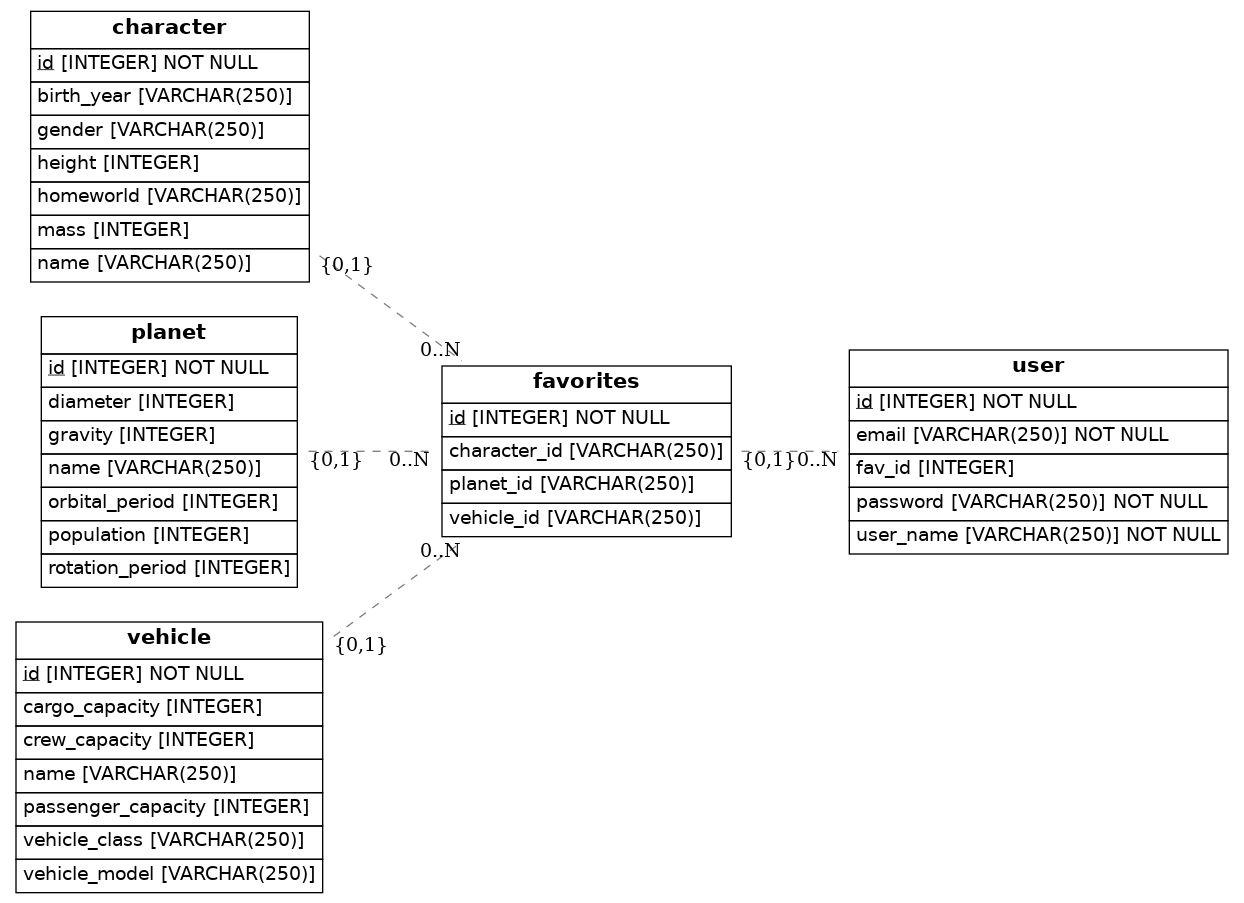
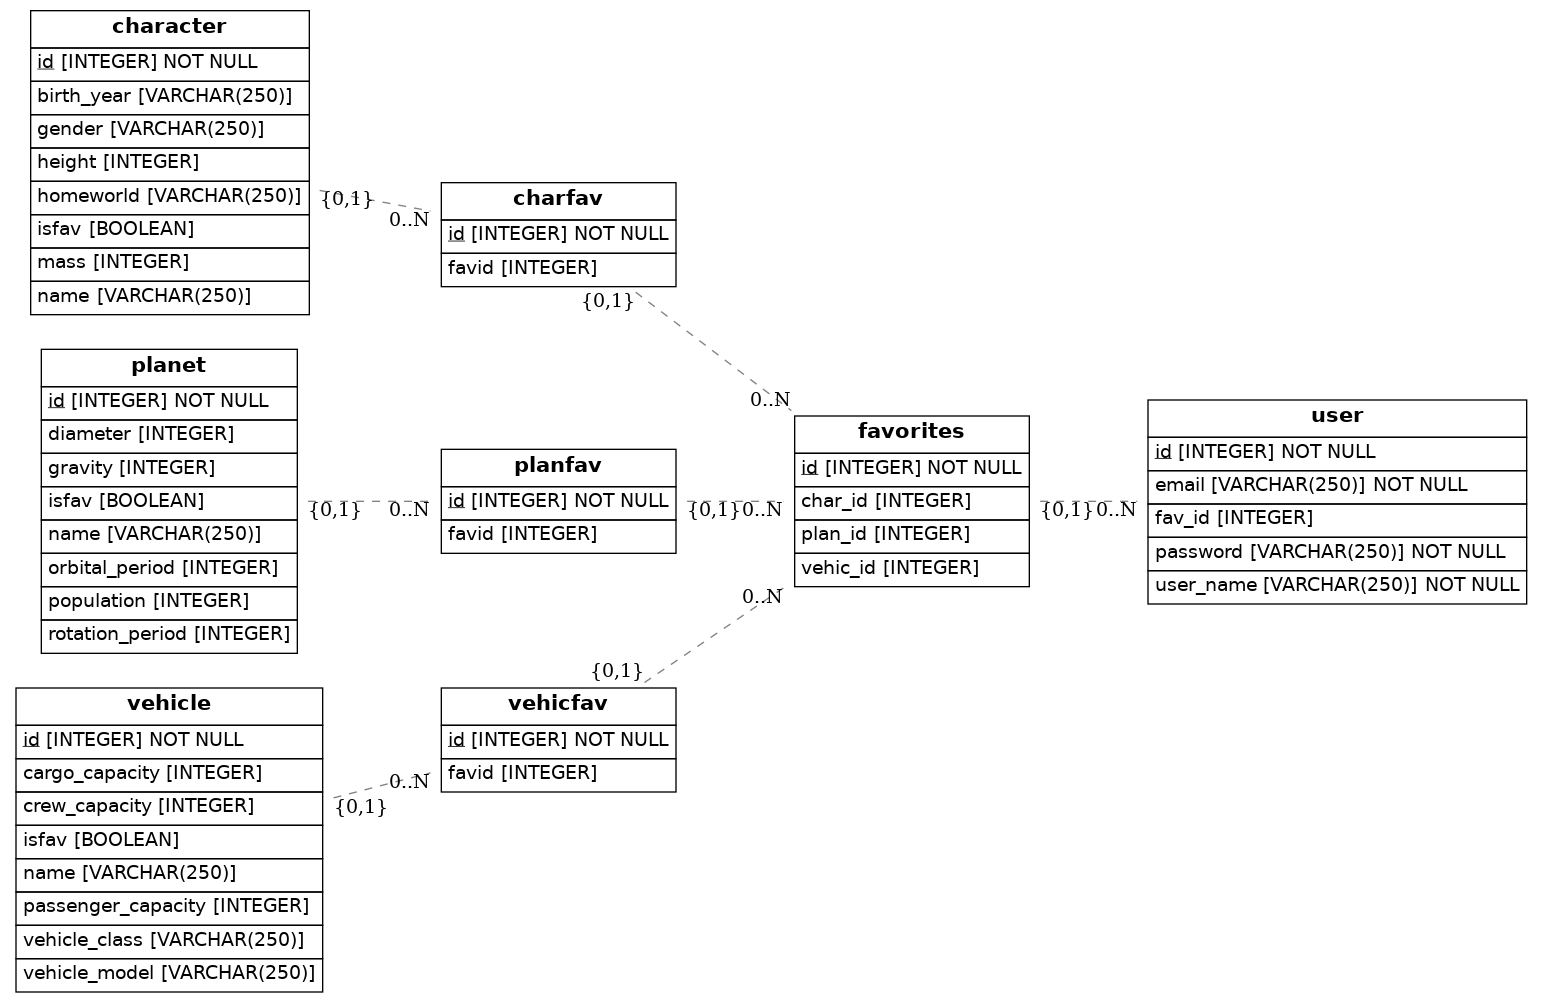
dividing favorites into secondary tables for each char, plan, vehic table. condensing them into a main table, linked to an exclusive user

diff --git a/src/models.py b/src/models.py
@@ -1,29 +1,34 @@
 import os
 import sys
-from sqlalchemy import Column, ForeignKey, Integer, String
+from sqlalchemy import Column, ForeignKey, Integer, String, Boolean
 from sqlalchemy.orm import relationship, declarative_base
 from sqlalchemy import create_engine
 from eralchemy2 import render_er
 
 Base = declarative_base()
 
+#basic model: diagram for a single user
+#one user has a unique favorite table: one to one
+#main favorite has branches to every secondary favorite, which is unique to the main favorite: one to one
+#many elements can go into an unique secondary favorite: one to many
+
 #User: should login
 #That implies it has a username, registered email, and a password
-#also linked to their favorites through an ID: user_id
-
+#also linked to their favorites through an ID: fav_id
 class User(Base):
     __tablename__ = 'user'
     id = Column(Integer, primary_key=True)
     user_name = Column(String(250), nullable=False)
     email = Column(String(250), nullable=False)
     password = Column(String(250), nullable=False)
-    fav_id = Column(Integer, ForeignKey("favorites.id" ))
+    fav_id = Column(Integer, ForeignKey("favorites.id"))
     favorites = relationship("Favorites")
 
  
 #Character: same as the SWAPI exercise. Not person, since there's other races on the universe
 #name, birth year, homeworld, gender, height, mass
 #keep in mind: birth year should be a string: BBY/ABY (before/after the battle of Yavin)
+#connected to a secondary favorite table
 class Character(Base):
     __tablename__ = 'character'
     id = Column(Integer, primary_key=True)
@@ -33,6 +38,14 @@ class Character(Base):
     gender = Column(String(250))
     height = Column(Integer)
     mass = Column(Integer)
+    isfav = Column(Boolean)
+
+#CharFavorite: exclusive table to store id of characters with isfav=true
+class CharFavorite(Base):
+    __tablename__="charfav"
+    id = Column(Integer, primary_key=True)
+    favid = Column(Integer, ForeignKey("character.filter_by(isfav=True)"))
+    character = relationship(Character)
 
 #Planet: same as the SWAPI exercise
 #name, population, diameter, orbital period, rotation period, gravity
@@ -45,6 +58,14 @@ class Planet(Base):
     orbital_period = Column(Integer)
     rotation_period = Column(Integer)
     gravity = Column(Integer)
+    isfav = Column(Boolean)
+
+#PlanFavorite: exclusive table to store id of planets with isfav=true
+class PlanFavorite(Base):
+    __tablename__="planfav"
+    id = Column(Integer, primary_key=True)
+    favid = Column(Integer, ForeignKey("planet.filter_by(isfav=True)"))
+    planet = relationship(Planet)
 
 
 #Vehicle: same as the SWAPI exercise
@@ -58,19 +79,29 @@ class Vehicle(Base):
     crew_capacity = Column(Integer)
     passenger_capacity = Column(Integer)
     cargo_capacity = Column(Integer)
+    isfav = Column (Boolean)
+
+#VehicFavorite: exclusive table to store id of vehicles with isfav=true
+class VehicFavorite(Base):
+    __tablename__="vehicfav"
+    id = Column(Integer, primary_key=True)
+    favid = Column(Integer, ForeignKey("vehicle.filter_by(isfav=True)"))
+    vehicle = relationship(Vehicle)
+
 
 #Favorites: user should store their favorites
-#so far: should store characters, planets and vehicles
-#user id, character id, planet id, vehicle id
+#condenses all of the secondary favorite tables
+#exclusive to a single user
 class Favorites(Base):
     __tablename__ = 'favorites'
     id = Column(Integer, primary_key=True)
-    character_id = Column(String(250), ForeignKey('character.id'))
-    planet_id = Column(String(250), ForeignKey('planet.id'))
-    vehicle_id= Column(String(250), ForeignKey('vehicle.id'))
-    character = relationship(Character)
-    planet = relationship(Planet)
-    vehicle = relationship(Vehicle)
+    char_id = Column(Integer, ForeignKey("charfav.id"))
+    plan_id = Column(Integer, ForeignKey("planfav.id"))
+    vehic_id = Column(Integer, ForeignKey("vehicfav.id"))
+    charfav = relationship(CharFavorite)
+    planfav = relationship(PlanFavorite)
+    vehicfav = relationship(VehicFavorite)
+
 
 
 ## Draw from SQLAlchemy base
